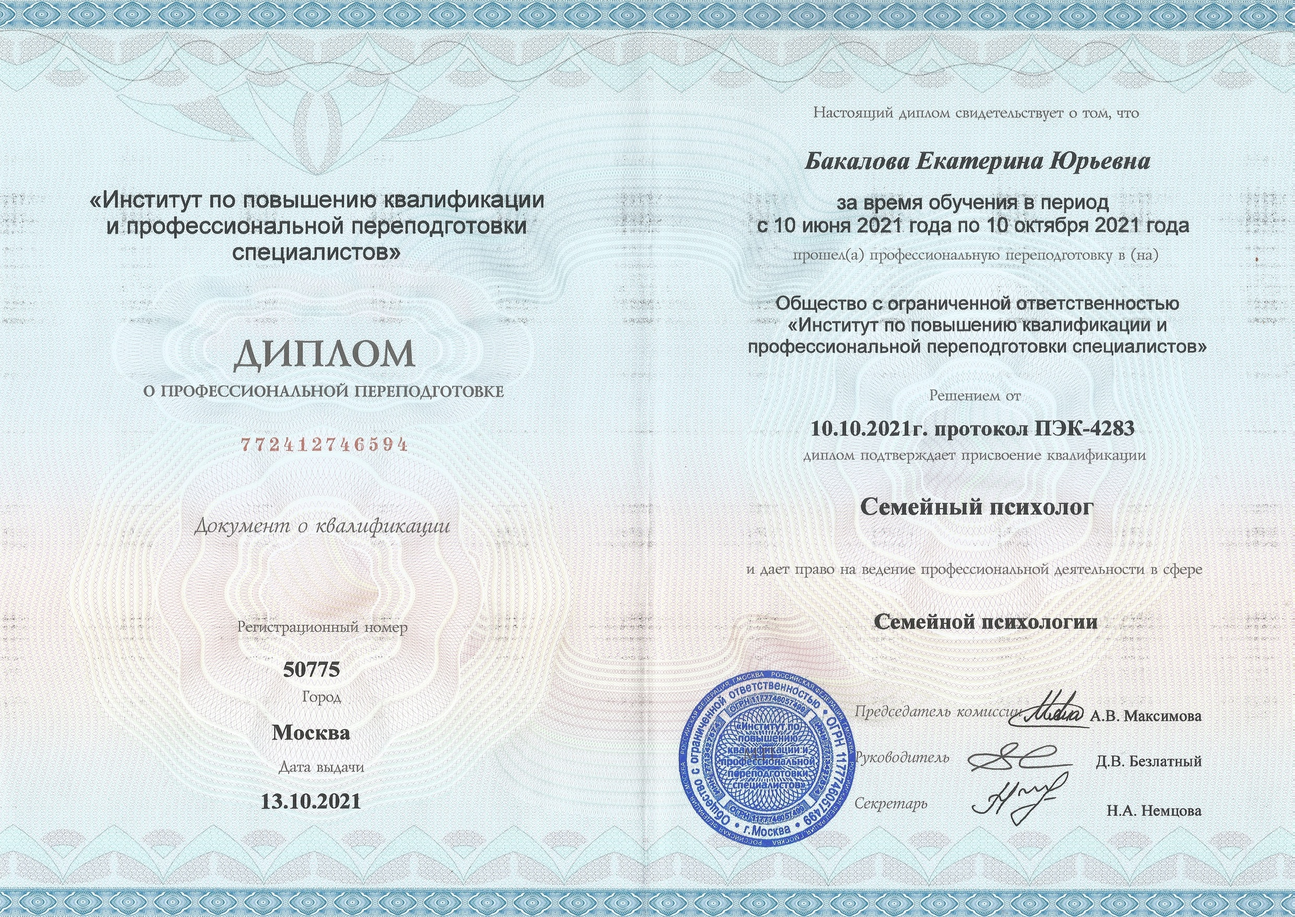
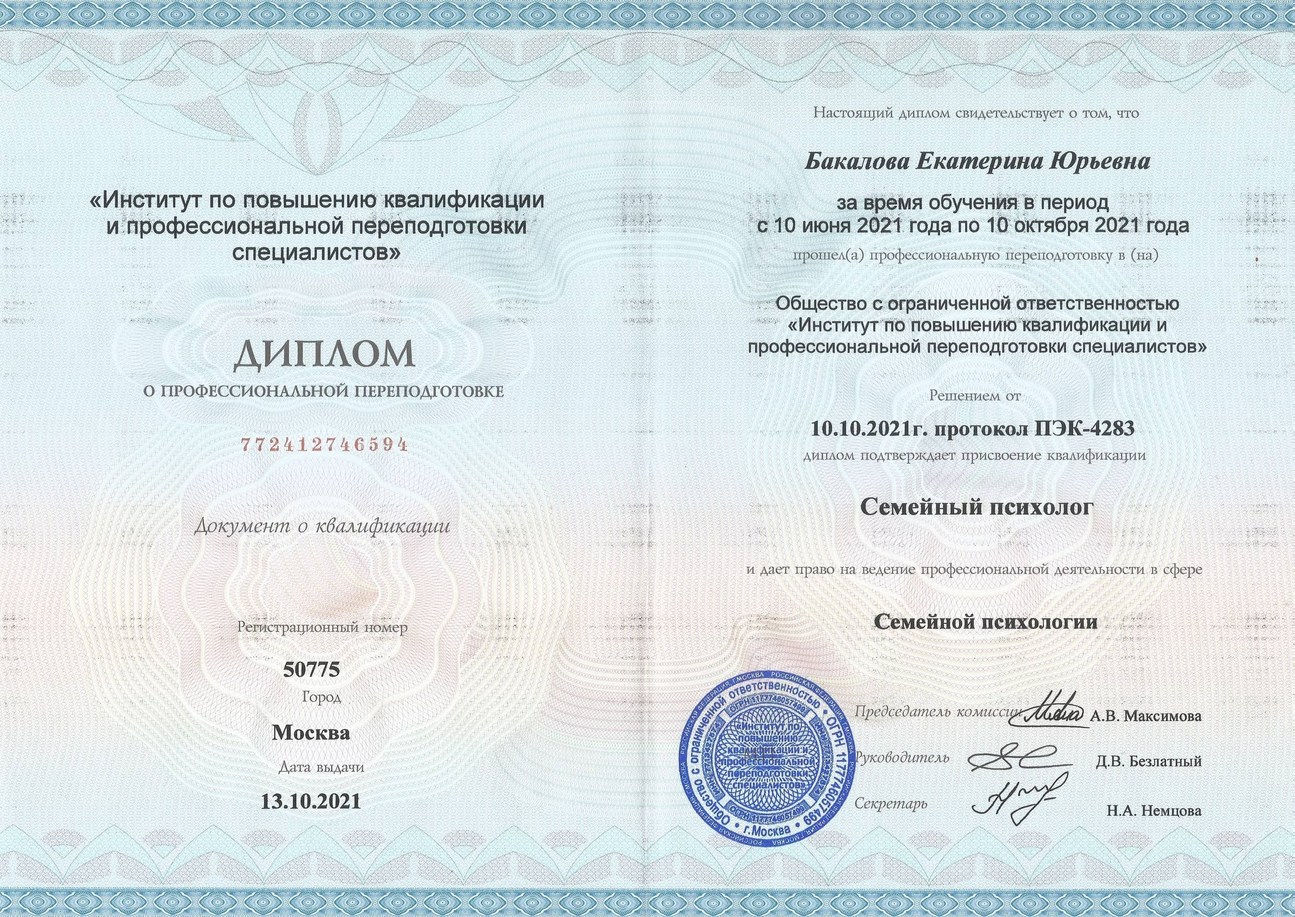
Fixed sitemap settings and compressed education images

diff --git a/nuxt.config.ts b/nuxt.config.ts
@@ -2,10 +2,6 @@
 export default defineNuxtConfig({
   devtools: { enabled: true },
 
-  site: {
-    url: 'https://psycholog-bakalova.ru'
-  },
-
   app: {
     head: {
       htmlAttrs: {
@@ -25,6 +21,14 @@ export default defineNuxtConfig({
     'nuxt-snackbar',
     'nuxt-simple-sitemap'
   ],
+
+  site: {
+    url: 'https://psycholog-bakalova.ru'
+  },
+
+  sitemap: {
+    autoI18n: false
+  },
 
   snackbar: {
     bottom: true,
